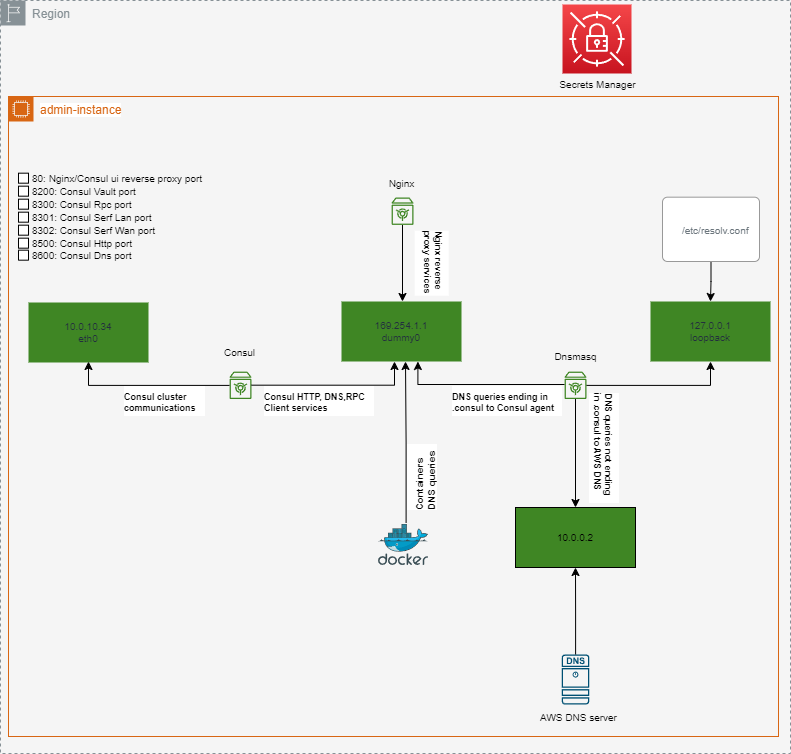
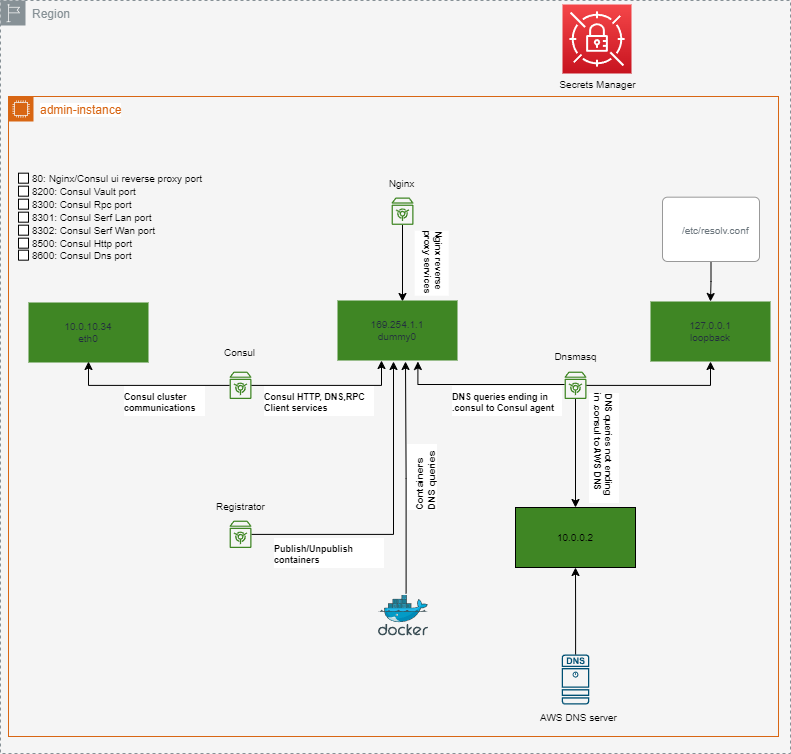
Docker registrator container

diff --git a/README.md b/README.md
@@ -19,7 +19,7 @@ dnsmaq acts as DNS service for the instance and the containers. It passes querie
 all the remaining queries are passed to the AWS DNS service at 10.0.0.2.<br/>
 In each AWS instance or in each container, Consul services can be queried by calling:<br/>
 <br/>
-curl http://169.254.1.1:8500/v1/catalog/service/jenkins-service?pretty
+curl http://${CONSUL_HTTP_ADDR}/v1/catalog/service/jenkins-service?pretty
 <br/>
 dig jenkins.maxmin.it.node.consul
 <br/><br/>
@@ -29,6 +29,7 @@ dig jenkins.maxmin.it.node.consul
 
 ```
 
+Fedora
 aws-cli/2.7.34
 jq-1.6
 
